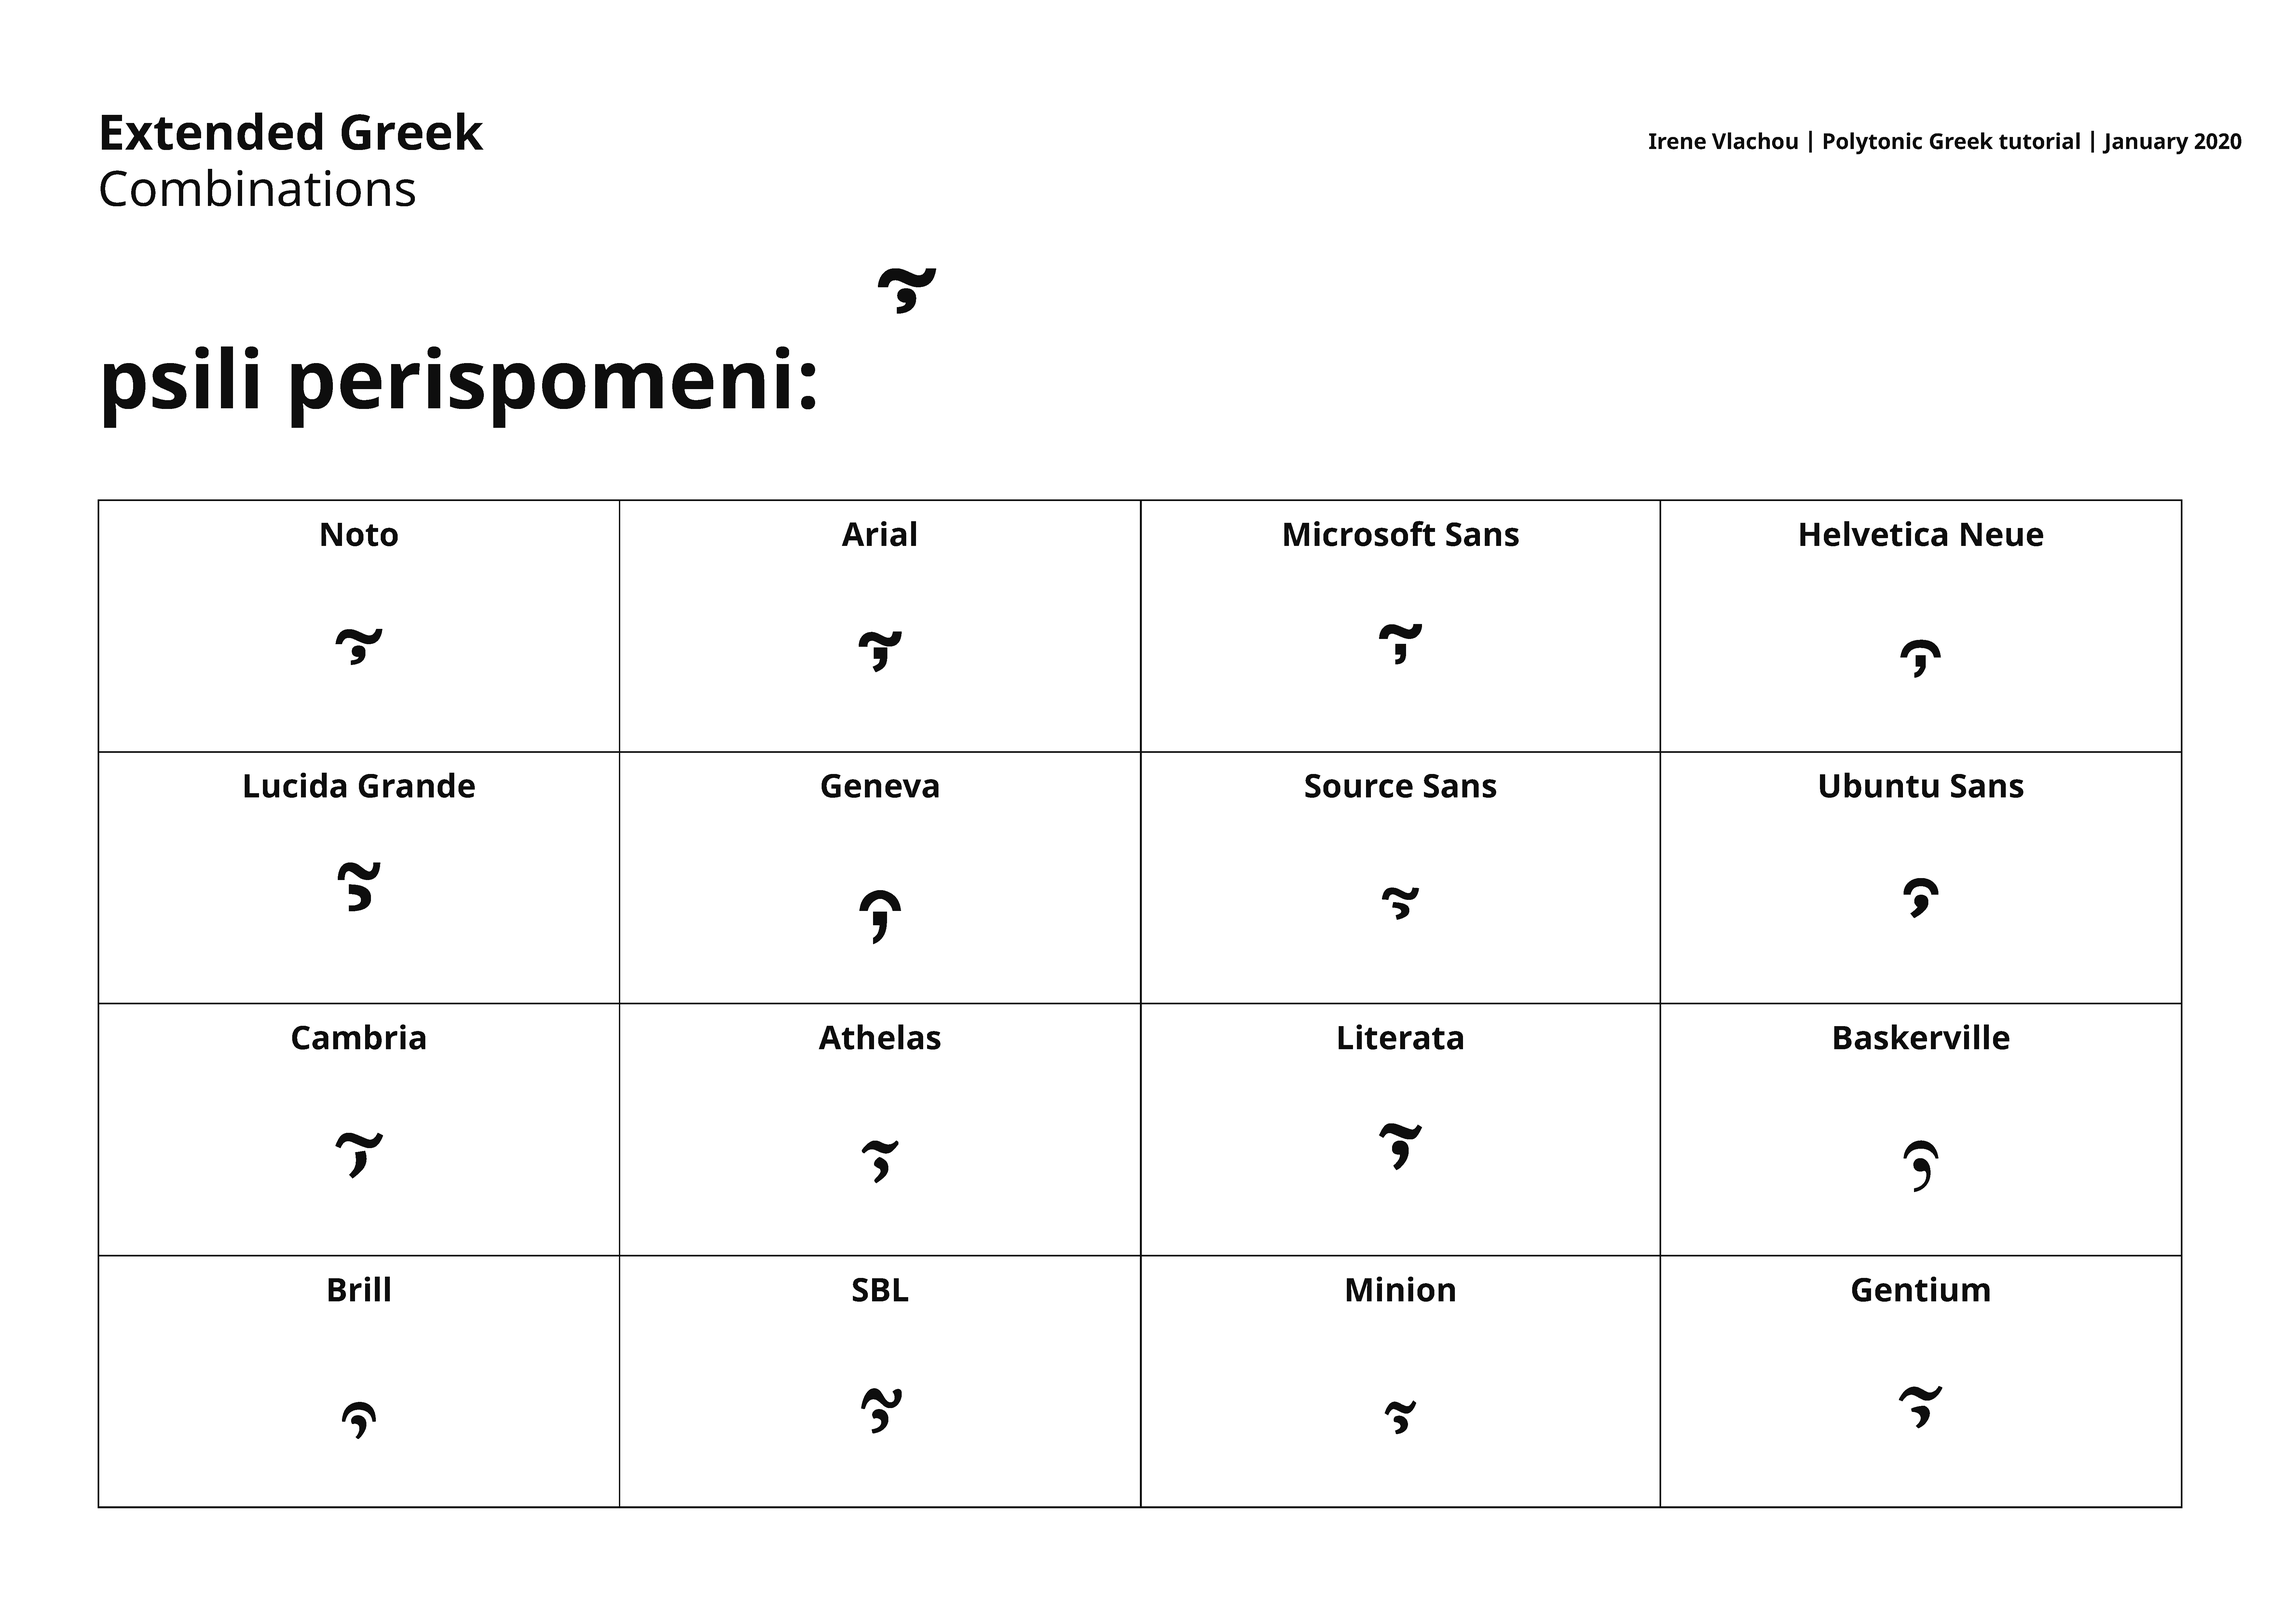
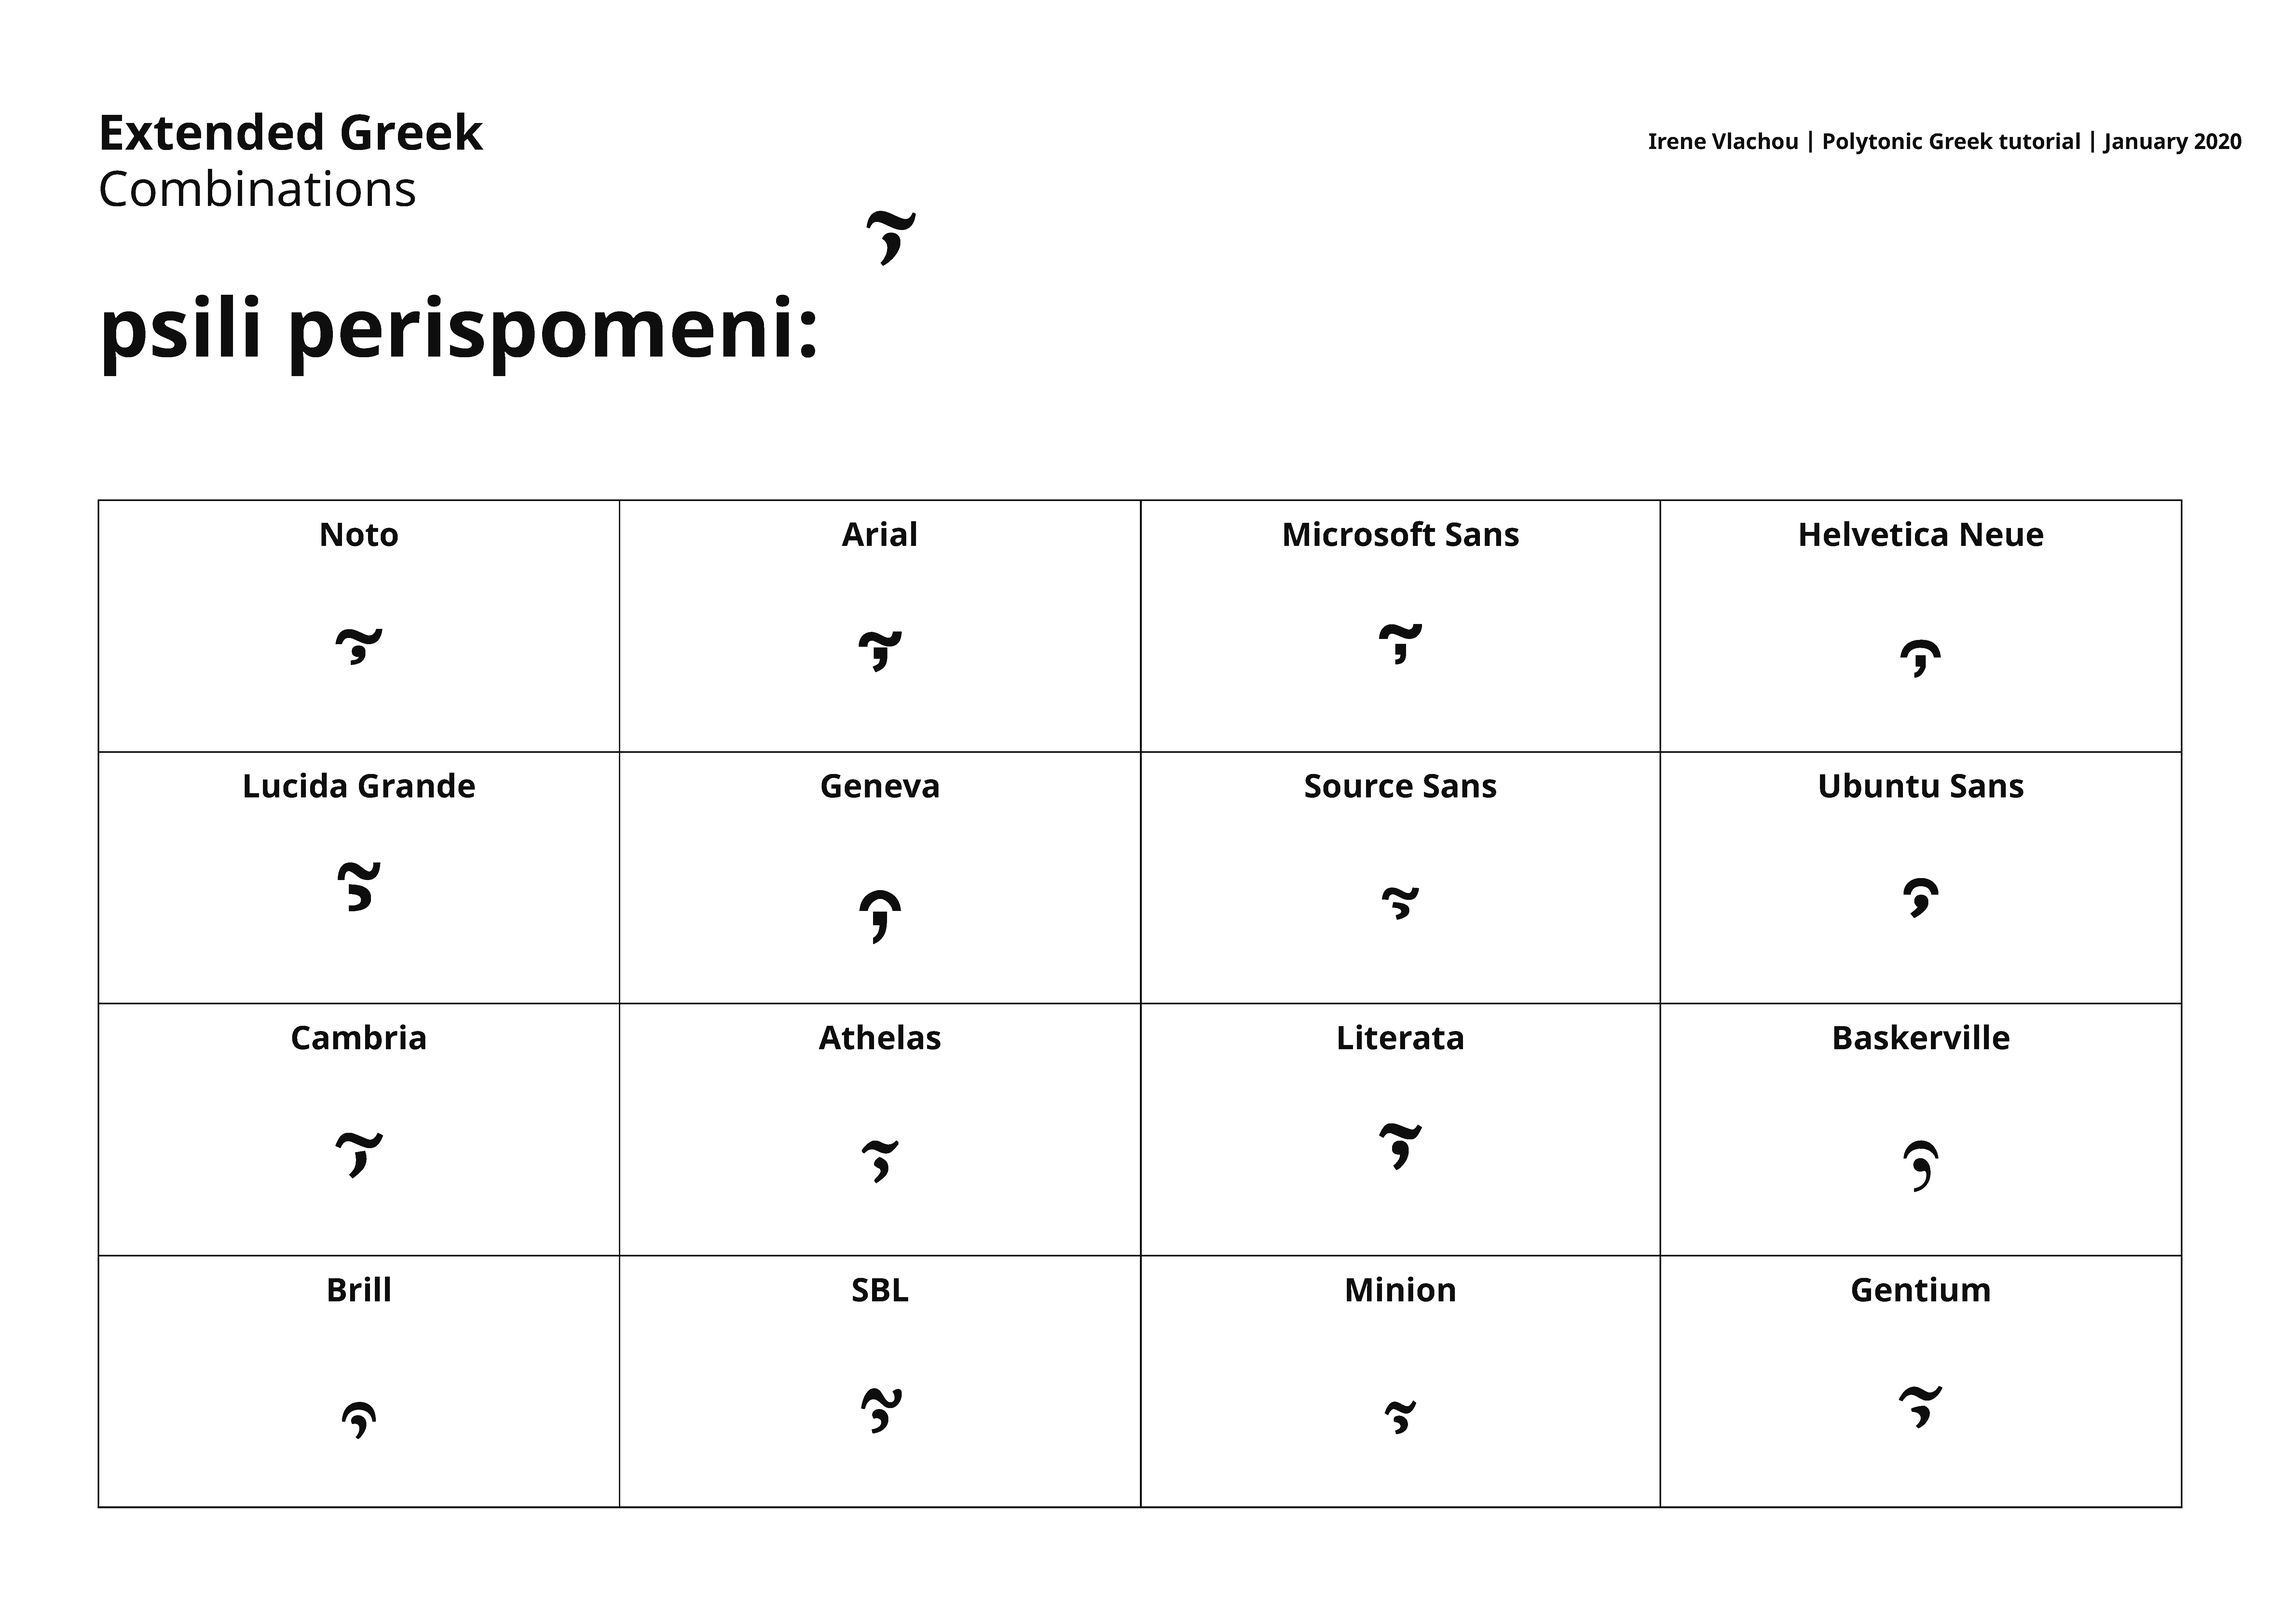
colvert update

Changed region(s): [[0.0312, 0.1875, 0.3746, 0.2812], [0.3746, 0.125, 0.4058, 0.1875]]

diff --git a/README.md b/README.md
@@ -37,20 +37,13 @@ https://github.com/googlefonts/gftools/tree/master/Lib/gftools/encodings/GF%20Gl
 ### Upper case:
 Polytonic greek is consisted by the addition of 96 Upper case
 
-ἈἉἊἋἌἍἎἏᾺΆᾸᾹᾼᾈᾉᾊᾋᾌᾍᾎᾏ
-
-ἘἙἚἛἜἝῈΈ
-
-ἨἩἪἫἬἭἮἯῊΉῌᾘᾙᾚᾛᾜᾝᾞᾟ
-
-ἸἹἺἻἼἽἾἿῚΊῘῙ
-
-ὈὉὊὋὌὍῸΌ
-
-Ῥ
-
-ὙὛὝὟῪΎῨῩ
-
+ἈἉἊἋἌἍἎἏᾺΆᾸᾹᾼᾈᾉᾊᾋᾌᾍᾎᾏ  
+ἘἙἚἛἜἝῈΈ  
+ἨἩἪἫἬἭἮἯῊΉῌᾘᾙᾚᾛᾜᾝᾞᾟ  
+ἸἹἺἻἼἽἾἿῚΊῘῙ  
+ὈὉὊὋὌὍῸΌ  
+Ῥ  
+ὙὛὝὟῪΎῨῩ  
 ὨὩὪὫὬὭὮὯῺΏῼᾨᾩᾪᾫᾬᾭᾮᾯ
 
 ![](images/tutorial_Page_01.png)
@@ -58,20 +51,13 @@ Polytonic greek is consisted by the addition of 96 Upper case
 ### Lower case:
 and 121 lower case composite glyphs
 
-ἀἁἂἃἄἅἆἇὰάᾰᾱᾶᾳᾲᾴᾀᾁᾂᾃᾄᾅᾆᾇᾷ 
-
+ἀἁἂἃἄἅἆἇὰάᾰᾱᾶᾳᾲᾴᾀᾁᾂᾃᾄᾅᾆᾇᾷ  
 ἐἑἒἓἔἕὲέ  
-
 ἠἡἢἣἤἥἦἧὴήῆῃῂῄᾐᾑᾒᾓᾔᾕᾖᾗῇ  
-
 ἰἱἲἳἴἵἶἷὶίῐῑῖῒΐῗ  
-
 ὀὁὂὃὄὅὸό  
-
 ῥῤ  
-
 ὑὓὕὗὺύῠῡὐὒὔὖῦῢΰῧ  
-
 ὠὡὢὣὤὥὦὧὼώῶῳῲῴᾠᾡᾢᾣᾤᾥᾦᾧῷ
 
 ![](images/tutorial_Page_02.png)
@@ -267,6 +253,7 @@ The most common way to deal with both issues is to introduce stylistic sets feat
 ## Acknowledgement
 
 This project was supported by [Google Fonts](https://fonts.google.com).
+Primary font for polytonic samples: [Colvert Greek](https://typographies.fr/N/colvert/colvert.html) by the author :)
 
 ## License
 
